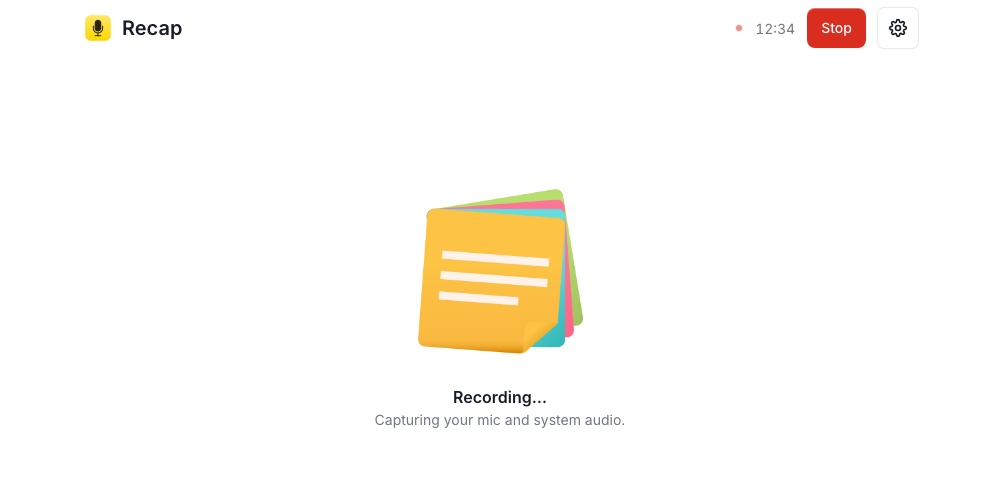
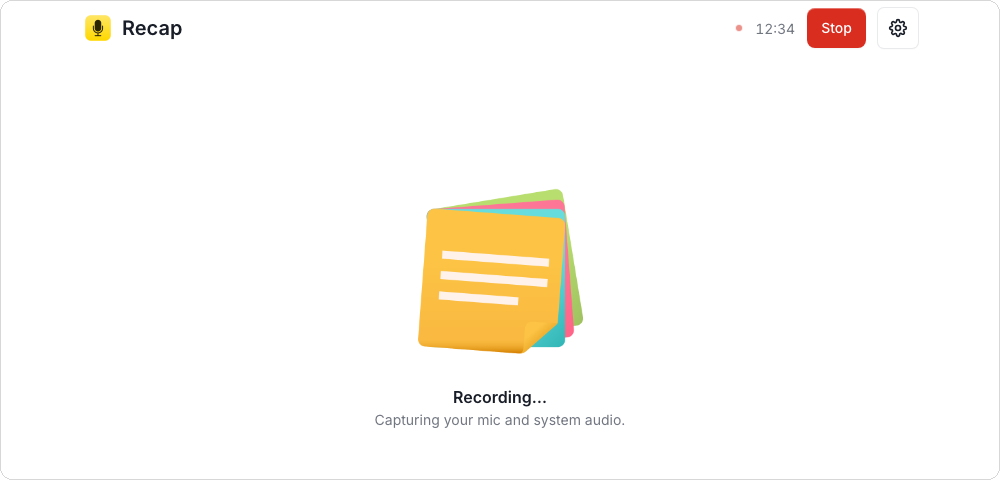
Round the corners and add the border back to README screenshots
The new screenshots from the README rewrite were missing the rounded
corners and hairline border the earlier ones had. New
assets/round_screenshot.py replicates that exactly: a 12px corner
radius and a 1px border stored as genuinely semi-transparent
rgba(0, 0, 0, 40), reverse-engineered by sampling the actual pixel
values of an earlier committed screenshot rather than guessing.

Getting the border's transparency right (not just its visible color)
took a few tries: naively compositing a semi-transparent stroke over
an already fully-opaque rounded image washes it out to an opaque gray
instead, since there's no transparency left underneath for it to
blend with. The fix is a content layer whose own alpha mask is inset
1px from the true edge, leaving real transparent space for the
border's own rgba(0,0,0,40) pixels to land in unmixed. Confirmed pixel
for pixel against the original: identical border color/alpha and
corner radius.

Changed region(s): [[0.992, 0.0, 1.0, 1.0]]

diff --git a/assets/round_screenshot.py b/assets/round_screenshot.py
@@ -1,0 +1,49 @@
+#!/usr/bin/env python3
+"""Applies the same rounded-corner + hairline-border treatment the earlier
+README screenshots had (reverse-engineered by sampling the actual pixels of
+assets/screenshot-summary.png from an earlier commit): a 12px corner radius
+and a 1px border stored as raw rgba(0, 0, 0, 40), genuinely semi-transparent
+black (renders correctly on both light and dark GitHub themes), not an
+opaque gray pre-blended against a white background.
+
+Usage: venv/bin/python3 assets/round_screenshot.py <file1.png> [file2.png ...]
+Overwrites each file in place.
+"""
+import sys
+
+from PIL import Image, ImageDraw
+
+RADIUS = 12
+BORDER_RGBA = (0, 0, 0, 40)
+
+
+def round_screenshot(path):
+    img = Image.open(path).convert("RGBA")
+    w, h = img.size
+
+    # Content mask: inset 1px from the true edge on every side. This leaves
+    # the outer 1px ring (where the border stroke goes, drawn centered on
+    # the true edge below) transparent in the content layer itself, rather
+    # than already-opaque, before the border is composited on top of it.
+    mask = Image.new("L", (w, h), 0)
+    ImageDraw.Draw(mask).rounded_rectangle([1, 1, w - 2, h - 2], radius=max(0, RADIUS - 1), fill=255)
+    img.putalpha(mask)
+
+    # Border: draw the stroke onto its own blank transparent layer, then
+    # composite it over the now-rounded image. Compositing a
+    # semi-transparent color over a *transparent* layer preserves the real
+    # rgba(0,0,0,40) at the stroke's own solidly-covered pixels. Compositing
+    # over already-*opaque* content (the mistake in an earlier version of
+    # this script) washes a semi-transparent border out toward opaque gray
+    # instead.
+    border = Image.new("RGBA", (w, h), (0, 0, 0, 0))
+    ImageDraw.Draw(border).rounded_rectangle([0, 0, w - 1, h - 1], radius=RADIUS, outline=BORDER_RGBA, width=1)
+
+    result = Image.alpha_composite(img, border)
+    result.save(path)
+
+
+if __name__ == "__main__":
+    for path in sys.argv[1:]:
+        round_screenshot(path)
+        print(f"rounded {path}")
